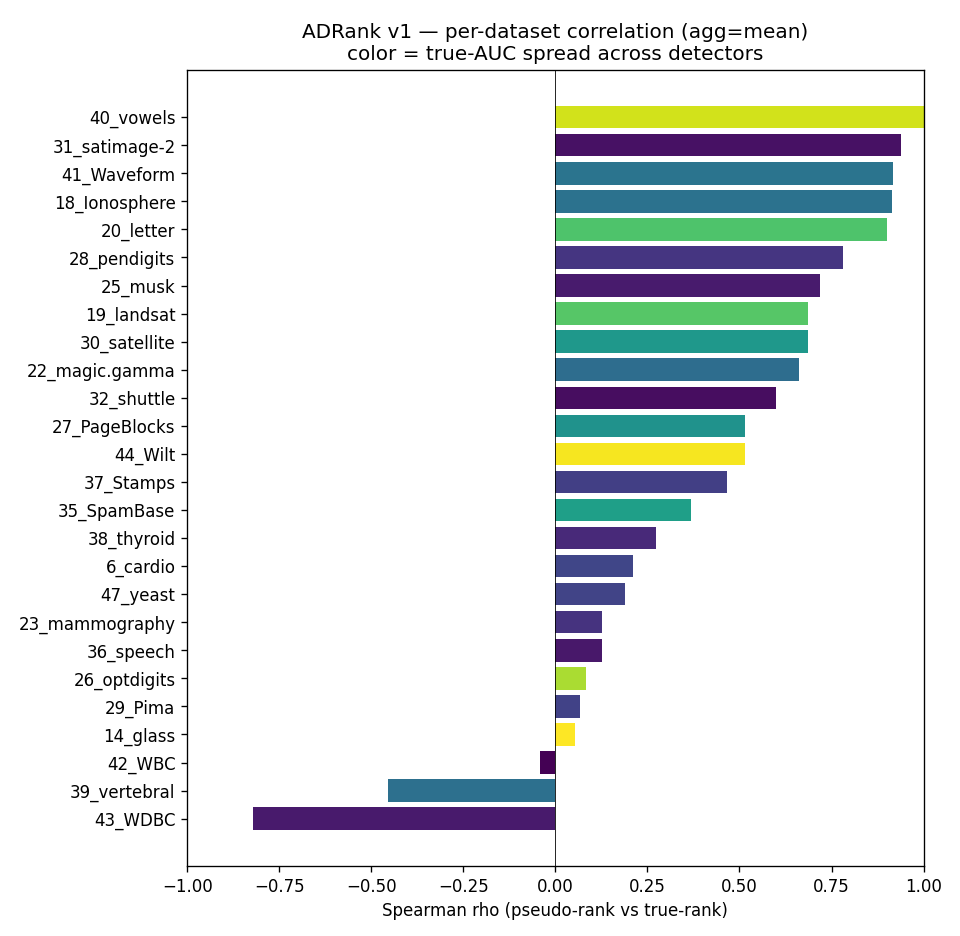
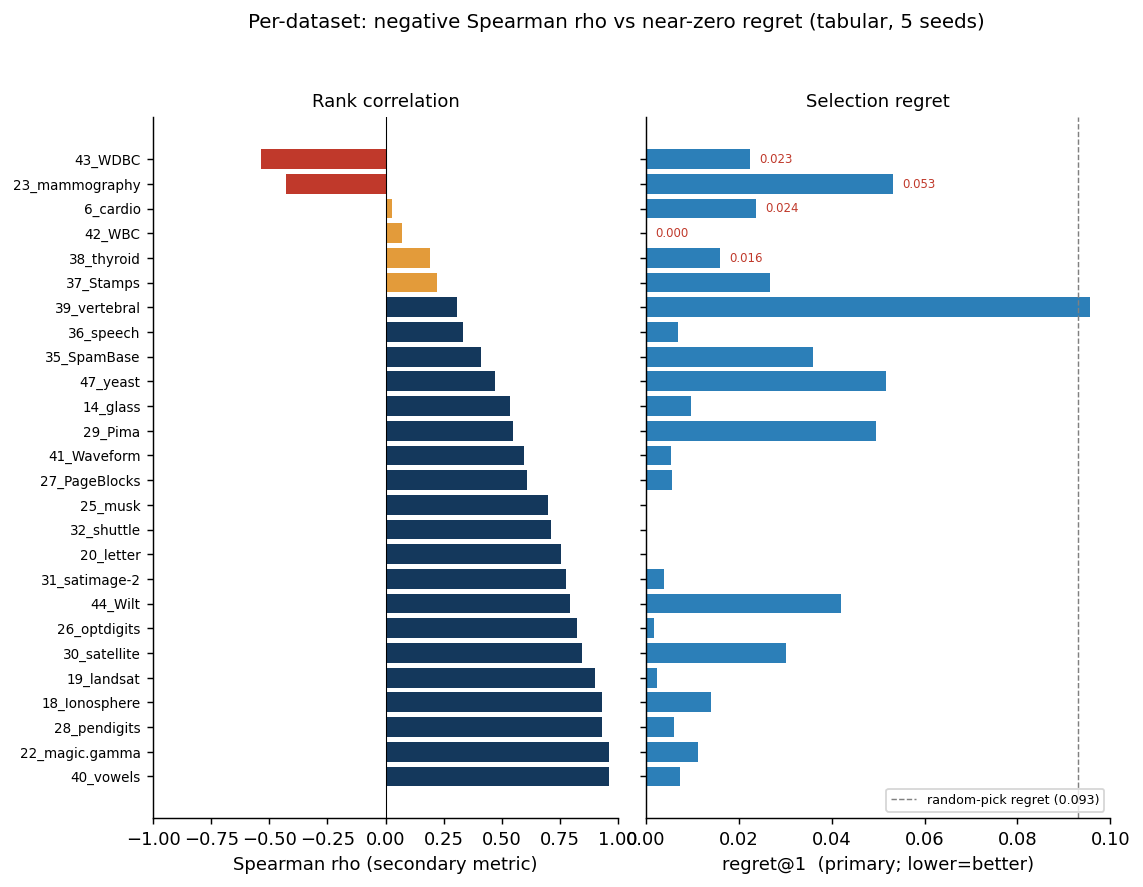
Figure 1: overlay regret vs Spearman rho, showing negatives are a metric artifact
Root cause of Fig 1 negatives: every negative/weak-rho tabular dataset has
near-zero regret (max 0.053, several exactly 0) because its detectors are all
bunched (near-perfect e.g. WDBC/WBC ~0.99, or near-random e.g. speech ~0.50), so
the true ranking is tie-noise that Spearman punishes but on which any pick is
good. New two-panel figure (rho | regret) makes this a direct visual argument
for the regret metric. Updated caption.

Changed region(s): [[0.0312, 0.0, 1.0, 1.0]]

diff --git a/docs/index.html b/docs/index.html
@@ -136,7 +136,7 @@ and regret@3 uses the best of ADRank's top three picks. Regret is <strong>thresh
 <h3 id="51-headline">5.1 Headline</h3>
 <figure>
 <img src="figures/fig1_rho_by_dataset.png" alt="Per-dataset Spearman rho for best ADRank config, colored by true-AUC spread across detectors">
-<figcaption><b>Figure 1.</b> Secondary view: per-dataset Spearman ρ of ADRank against the true ranking on the tabular panel, bars colored by the true-AUC spread across the detector panel (yellow = large spread, purple = tiny). Datasets with tiny spread (purple) carry a near-tied true ranking on which ρ is noisy but regret is ≈ 0; this dependence on spread is exactly why we use regret (Figure 4) as the primary metric.</figcaption>
+<figcaption><b>Figure 1.</b> Why the secondary rank-correlation metric misleads, and the primary regret metric does not. Left: per-dataset Spearman ρ of ADRank against the true tabular ranking (red = negative). Right: the same datasets' regret@1 (lower is better; dashed line is the 0.093 random-pick regret). Every dataset with negative or weak ρ has near-zero regret (max 0.053, several exactly 0): its detectors are all bunched, either near-perfect (WDBC, WBC ≈ 0.99) or near-random (speech ≈ 0.50), so the true ranking is tie-noise that ρ punishes but on which any pick is a good pick. Spearman scores the full ordering including tied and irrelevant detectors; regret scores only the deployed pick. This is why we report regret as primary.</figcaption>
 </figure>
 
 <p>On the 26 tabular ADBench datasets, five-seed ADRank picks a detector within <strong>regret@1 = 0.021 ± 0.003</strong> of the best in the panel: the chosen detector is on average 2.1 AUC points from optimal, versus 9.3 points for random selection, a <strong>77% reduction</strong>. regret@3 falls to 0.007. The small standard deviation (±0.003) shows the selection is stable across seeds. On the secondary rank-correlation metric, ADRank reaches Spearman ρ = 0.63 ± 0.05 on the spread ≥ 0.10 subset with top-1 hit rate 31%. The consensus baseline scores ρ = -0.15, worse than random; the average detector's opinion is not a proxy for correctness. Scrambled ADRank scores ρ near zero, confirming the effect is not an artifact of the aggregation pipeline.</p>

diff --git a/paper/adrank.md b/paper/adrank.md
@@ -80,7 +80,7 @@ We do not run MetaOD [3] or IREOS [2] as live baselines: the former requires a l
 
 <figure>
 <img src="figures/fig1_rho_by_dataset.png" alt="Per-dataset Spearman rho for best ADRank config, colored by true-AUC spread across detectors">
-<figcaption><b>Figure 1.</b> Secondary view: per-dataset Spearman ρ of ADRank against the true ranking on the tabular panel, bars colored by the true-AUC spread across the detector panel (yellow = large spread, purple = tiny). Datasets with tiny spread (purple) carry a near-tied true ranking on which ρ is noisy but regret is ≈ 0; this dependence on spread is exactly why we use regret (Figure 4) as the primary metric.</figcaption>
+<figcaption><b>Figure 1.</b> Why the secondary rank-correlation metric misleads, and the primary regret metric does not. Left: per-dataset Spearman ρ of ADRank against the true tabular ranking (red = negative). Right: the same datasets' regret@1 (lower is better; dashed line is the 0.093 random-pick regret). Every dataset with negative or weak ρ has near-zero regret (max 0.053, several exactly 0): its detectors are all bunched, either near-perfect (WDBC, WBC ≈ 0.99) or near-random (speech ≈ 0.50), so the true ranking is tie-noise that ρ punishes but on which any pick is a good pick. Spearman scores the full ordering including tied and irrelevant detectors; regret scores only the deployed pick. This is why we report regret as primary.</figcaption>
 </figure>
 
 On the 26 tabular ADBench datasets, five-seed ADRank picks a detector within **regret@1 = 0.021 ± 0.003** of the best in the panel: the chosen detector is on average 2.1 AUC points from optimal, versus 9.3 points for random selection, a **77% reduction**. regret@3 falls to 0.007. The small standard deviation (±0.003) shows the selection is stable across seeds. On the secondary rank-correlation metric, ADRank reaches Spearman ρ = 0.63 ± 0.05 on the spread ≥ 0.10 subset with top-1 hit rate 31%. The consensus baseline scores ρ = -0.15, worse than random; the average detector's opinion is not a proxy for correctness. Scrambled ADRank scores ρ near zero, confirming the effect is not an artifact of the aggregation pipeline.
